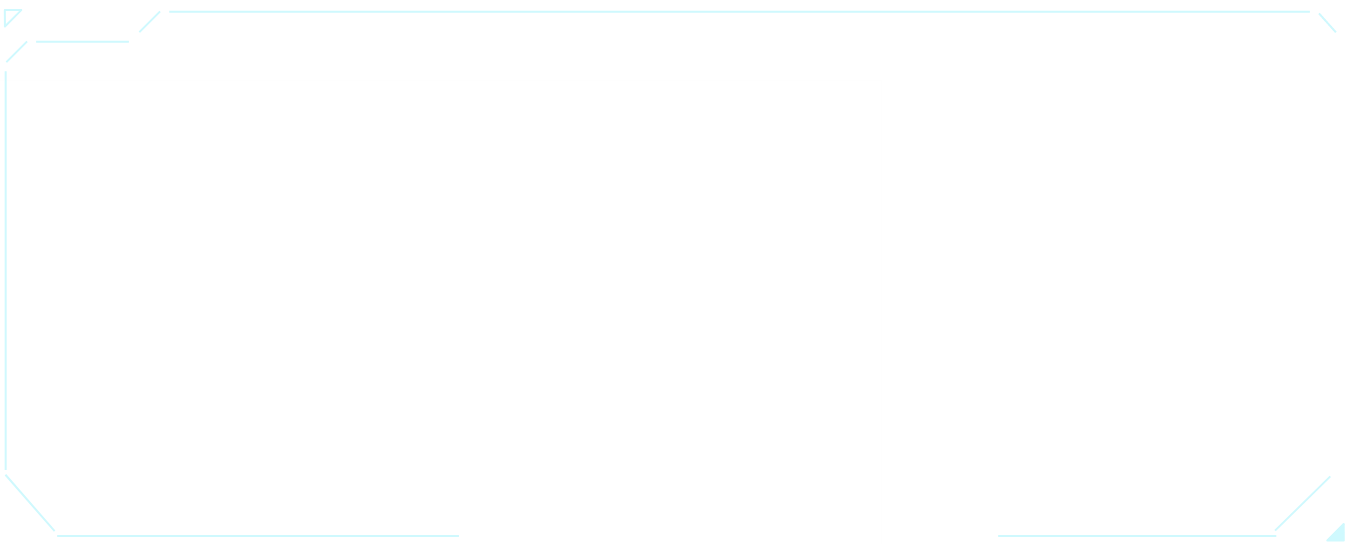
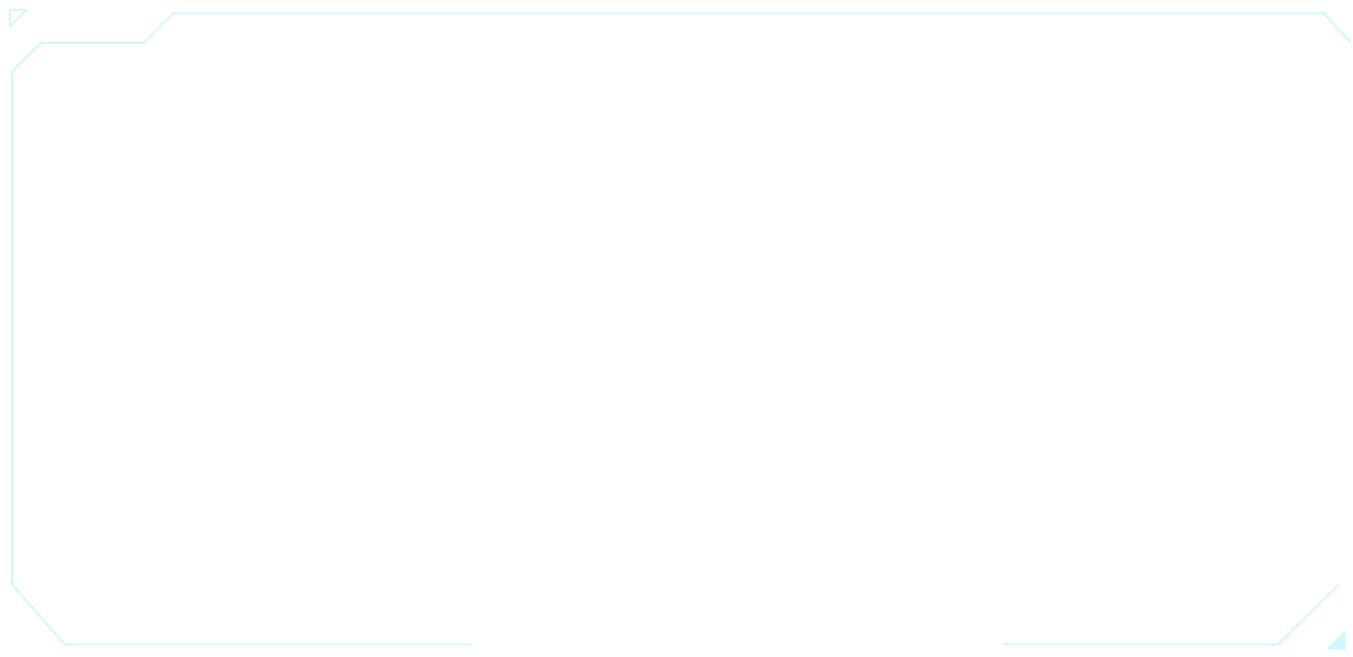
fsdf

diff --git a/client/src/views/homepage/index.vue b/client/src/views/homepage/index.vue
@@ -63,11 +63,10 @@ export default {
 
 <style lang="scss">
 .homepage{
-  padding: 0 20px;
+  padding: 30px 20px 0px 20px;
   &_poster{
     background: url('../../assets/images/homepage/Assets.png') no-repeat;
-    background-size: 100%;
-    margin-top: 50px;
+    background-size: 100% 100%;
     height: 600px;
   }
   &_movie{
